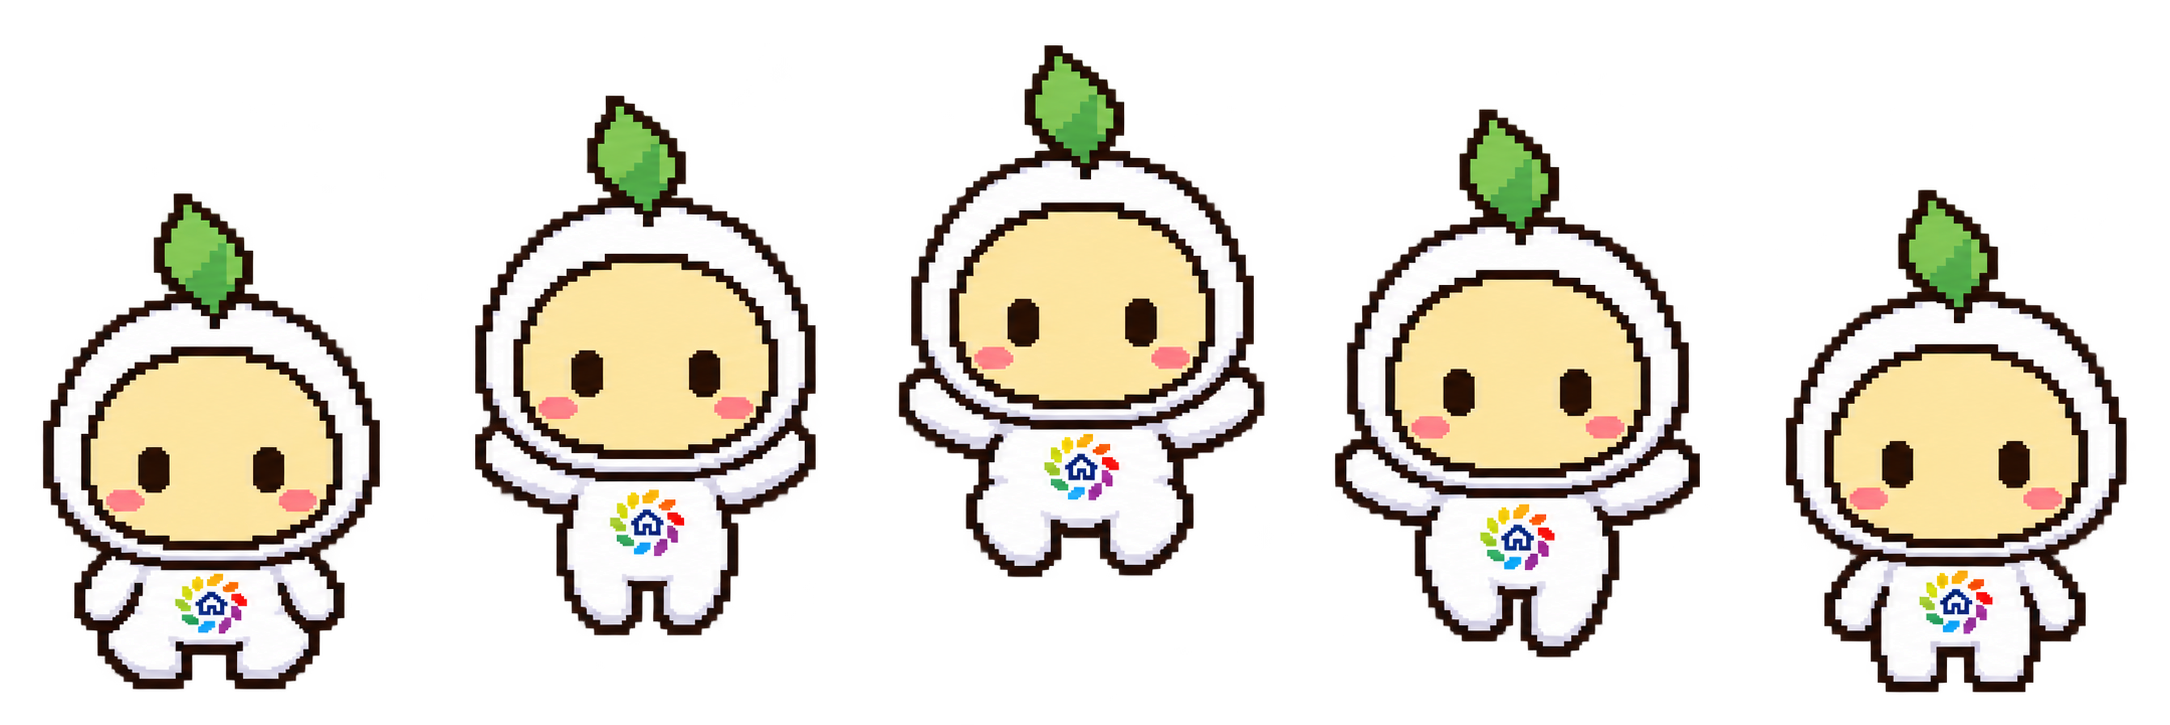
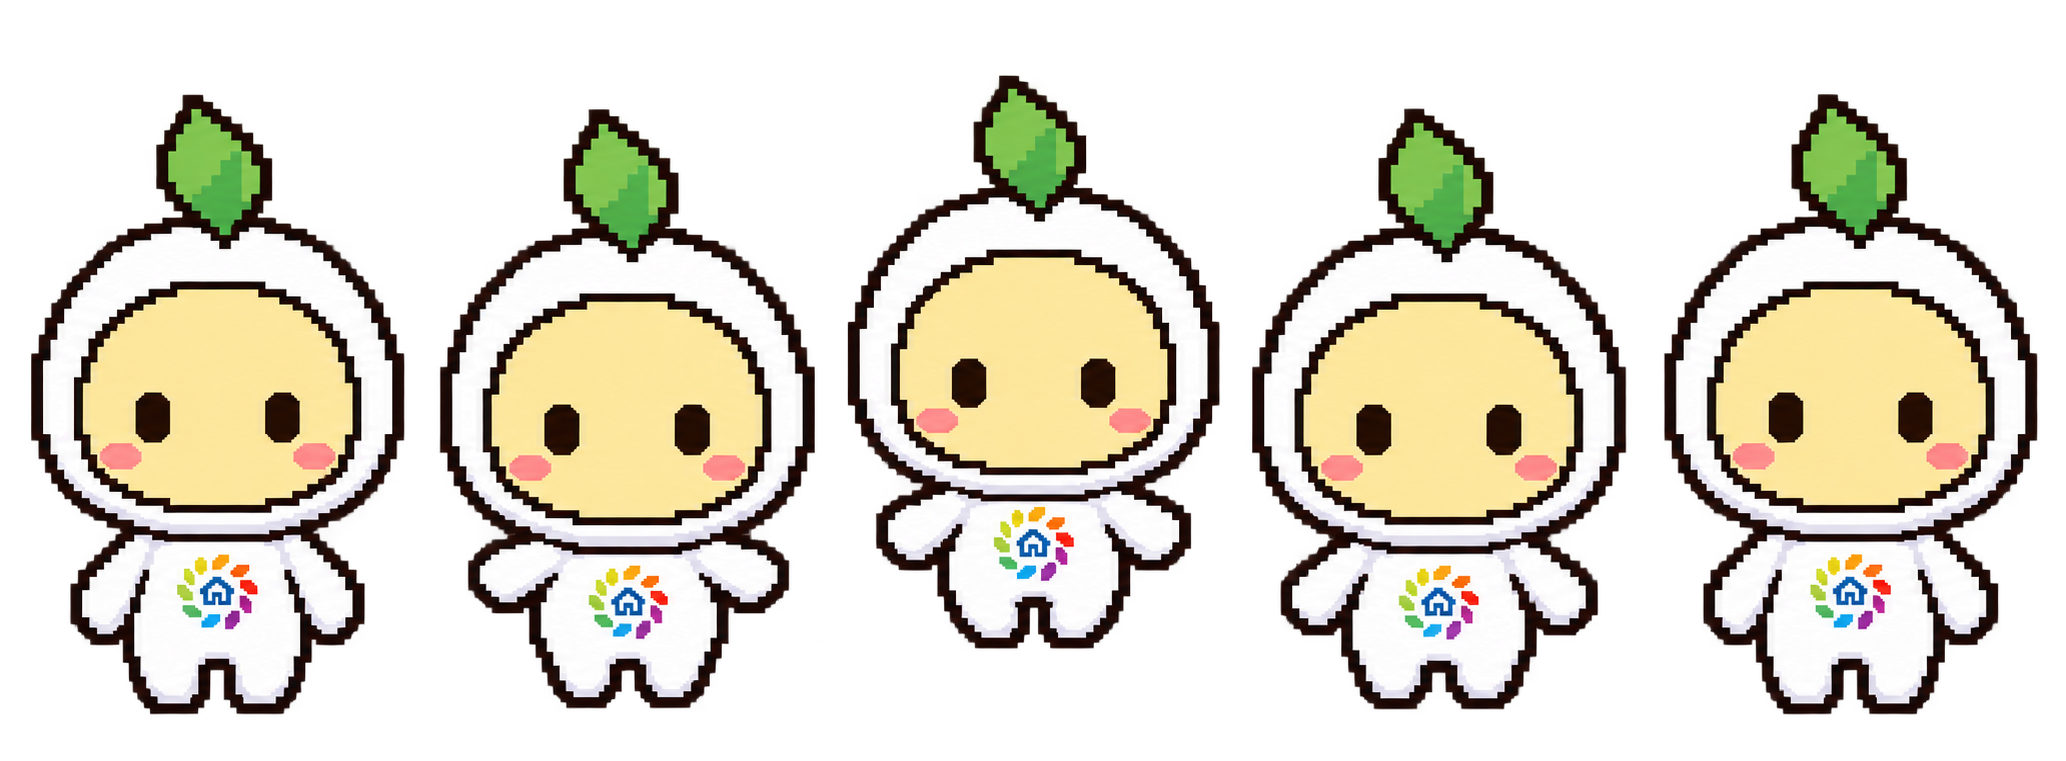
feat(little-home): upgrade to Codex sprite v2

Changed region(s): [[0.0, 0.0607, 0.9913, 0.971]]

diff --git a/README.md b/README.md
@@ -15,6 +15,8 @@ tar -xzf codex-little-home.tar.gz -C "${CODEX_HOME:-$HOME/.codex}/pets"
 
 ## Pets
 
+Little Home uses Codex sprite v2, with nine animation states and sixteen look directions.
+
 <table>
   <tr>
     <td width="180" height="180" align="center" valign="middle">
